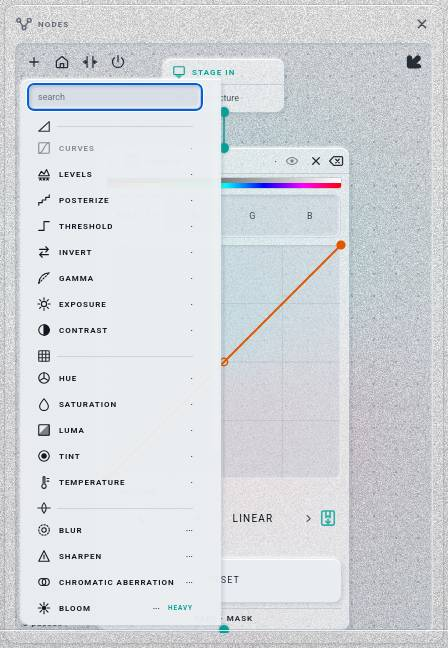
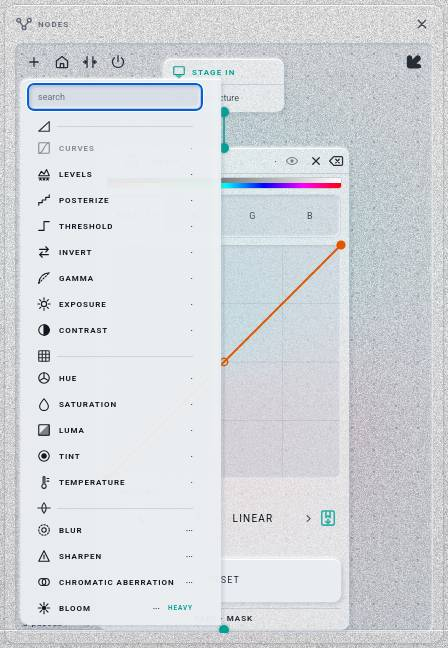
V3 CRAMPED SPACE: FOLDS skips hidden cards, the bar goes under any float it meets, the narrow stage seat, GRAIN rests while paused, reduced motion closed, the touch hold's slop
The sheet (1600, 1280x720 + MIR OPTIONS/KEYBOARD/NODES, 1366, 1280, 1024, 800, phone) before/after in V-shots/, 022's baseline.

Changed region(s): [[0.0, 0.0, 1.0, 1.0], [0.5, 0.1852, 0.5938, 0.216]]

diff --git a/lab/shell/modulation.js b/lab/shell/modulation.js
@@ -191,8 +191,28 @@ export function createModSeam(app) {
     }
     const hits = (a, b) => !(a.right <= b.left || a.left >= b.right || a.bottom <= b.top || a.top >= b.bottom);
     const dodging = {};   // 0.5.0 C7b: each kit window's open rect (the modulation window's, the TIMELINE's): the pill gives way to both
-    /* 020 T3 · THE BAR IS ON TOP of every window (lab.css, chrome + 3) but these two: when no seat clears them it goes UNDER them for that time */
-    const under = (on) => document.body.classList.toggle('transport-under', !!on);
+    /* 020 T3 · THE BAR IS ON TOP of every window (lab.css, chrome + 3) but these two: when no seat clears them it goes UNDER them for that time.
+       021 V3 · …AND UNDER EVERY OTHER OPEN FLOAT IT MEETS (a short screen: MIR OPTIONS, KEYBOARD, NODES, a floated card): the seat is chosen
+       against TIMELINE and MODULATION as before; then any open window in #floats over the bar's box puts the bar under it (`blocked`: no seat
+       cleared those two).  A window off the bar leaves it on top, so on a tall screen nothing changes until a window is dragged over it */
+    const floatsEl = document.getElementById('floats');
+    let blocked = false;
+    const floatOver = () => {
+      if (!floatsEl) return false;
+      const open = [...floatsEl.children].filter((n) => !n.hidden && (n.classList.contains('mir-win') || (n.classList.contains('dev') && n.classList.contains('floating') && !n.classList.contains('closed'))) && !n.classList.contains('mir-transport-free'));
+      if (!open.length) return false;
+      const t = document.getElementById('transport'); if (!t || !t.classList.contains('mini') || t.dataset.place === 'free') return false;
+      const b = t.getBoundingClientRect(); if (!b.width) return false;
+      return open.some((n) => { const r = n.getBoundingClientRect(); return r.width > 0 && hits(r, b); });
+    };
+    const under = (on) => document.body.classList.toggle('transport-under', !!on || floatOver());
+    if (floatsEl) {   // a float opened, closed, moved or resized: ask again, once a frame
+      let booked = 0; const book = () => { if (!booked) booked = requestAnimationFrame(() => { booked = 0; if (!trMoving) under(blocked); }); };
+      const mo = new MutationObserver((list) => { for (const m of list) for (const n of m.addedNodes || []) if (n.nodeType === 1) watch(n); book(); });
+      const watch = (n) => mo.observe(n, { attributes: true, attributeFilter: ['hidden', 'style', 'class'] });
+      mo.observe(floatsEl, { childList: true }); for (const n of floatsEl.children) watch(n);
+      addEventListener('resize', book);
+    }
     function modDodge(rect, who = 'mod') {
       /* 0.5.0 C4: the kit's close reports null, and its place() reports the real box even while closed (λWAVES' copy sent the
          zero rect): a window that is not open has nothing to dodge */
@@ -203,7 +223,7 @@ export function createModSeam(app) {
       const rs = Object.values(dodging).filter(Boolean), free = (s, w, h) => !rs.some((r) => hits(seatRect(s, w, h), r));
       occlusion.dirty();   // a paused field still has to move its line masks with the window
       const t = document.getElementById('transport');
-      if (!t || !t.classList.contains('mini') || t.dataset.place === 'free') { under(false); return; }   // iteration 014 A4: the FREE window is the hand's, never dodged
+      if (!t || !t.classList.contains('mini') || t.dataset.place === 'free') { blocked = false; under(false); return; }   // iteration 014 A4: the FREE window is the hand's, never dodged
       /* 015 T6 · A DODGE ASKED MID-MOVE IS KEPT, NOT DROPPED: the last one re-asks once the move has landed (before, only a report with no window
          open was retried, so a window that opened while the pill travelled could land on top of it) */
       if (trMoving) { clearTimeout(dodgeAgain); dodgeAgain = setTimeout(() => modDodge(dodging.mod || null, 'mod'), 320); return; }
@@ -215,7 +235,7 @@ export function createModSeam(app) {
          When the pill already sits there, that answer changed nothing but it read the pill's rect first: on a first visit
          the boot's forced style + layout, 30–38 ms, once the closed H₂ and MOLECULES cards stopped paying it
          (probes/N/n8-reads.mjs).  Any other case falls through to the measured road below, unchanged. */
-      if (!rs.length && trSeat === (matchMedia('(max-width: 860px)').matches ? 'top' : 'bottom')) { under(false); return; }
+      if (!rs.length && trSeat === (matchMedia('(max-width: 860px)').matches ? 'top' : 'bottom')) { blocked = false; under(false); return; }
       const box = t.getBoundingClientRect();
       const w = box.width || 560, h = box.height || 34;
       const narrowRack = matchMedia('(max-width: 860px)').matches;
@@ -223,7 +243,7 @@ export function createModSeam(app) {
       const want = narrowRack ? 'top'
                  : free('bottom', w, h) ? 'bottom'
                  : free('top', w, h) ? 'top' : trSeat;
-      under(!free(want, w, h));
+      blocked = !free(want, w, h); under(blocked);
       if (want === trSeat) return;
       trMoving = true;
       const leaving = trSeat === 'bottom' ? 'lw-tr-out-down' : 'lw-tr-out-up';
@@ -239,7 +259,7 @@ export function createModSeam(app) {
         t.style.animation = arriving + ' 160ms cubic-bezier(.23,1,.32,1) forwards';
         let ended = false;
         const done = () => { if (ended) return; ended = true;
-          t.removeEventListener('animationend', done); t.style.animation = ''; trMoving = false; };
+          t.removeEventListener('animationend', done); t.style.animation = ''; trMoving = false; under(blocked); };   // 021 V3: landed, the floats asked again
         t.addEventListener('animationend', done);
         setTimeout(done, 400);                                  // the belt: an animation that never fires must not wedge the flag
       };

diff --git a/lab/sw.js b/lab/sw.js
@@ -33,7 +33,7 @@
 const PRECACHE = [
   ['./ab-patch.json',                                               '5dd0e71d78bf'],
   ['./absorb.js',                                                   '3b0857195bfa'],
-  ['./actions.js',                                                  '09bc37845146'],
+  ['./actions.js',                                                  '4da9bf51550d'],
   ['./angular-nodes.js',                                            '945796c72ba8'],
   ['./ask.js',                                                      '6e716ccee7ea'],
   ['./atoms.js',                                                    'e132af19a5c8'],
@@ -54,9 +54,9 @@ const PRECACHE = [
   ['./chord-audio.js',                                              '015d0dd91a07'],
   ['./clock.js',                                                    '35e6b0ac22aa'],
   ['./cornell.js',                                                  'd38ee2adee25'],
-  ['./csb-favs.js',                                                 '63ebb5357816'],
+  ['./csb-favs.js',                                                 '9b9f6aa75dce'],
   ['./csb-search.js',                                               '3ca5a3e429ee'],
-  ['./csb.css',                                                     'ef0452c3bfa9'],
+  ['./csb.css',                                                     '0720a5b6dd83'],
   ['./demos/wave-dancer.lambdawaves.json',                          'c8c61c14152c'],
   ['./density.js',                                                  'b7e7f8bde4fb'],
   ['./dft-grid.js',                                                 '4a75ae325355'],
@@ -363,7 +363,7 @@ const PRECACHE = [
   ['./nodes-compile.js',                                            '56181686dca8'],
   ['./nodes-undo.js',                                               'cfe471461333'],
   ['./nodes-view.js',                                               '54ab54c70dd2'],
-  ['./nodes.css',                                                   '6c0b6302a36a'],
+  ['./nodes.css',                                                   '5b4b2b9fc2b1'],
   ['./nodes.js',                                                    'dde4da95d03e'],
   ['./occlusion.js',                                                'ad36cf08beeb'],
   ['./orbit.js',                                                    '244571342fd8'],
@@ -398,15 +398,15 @@ const PRECACHE = [
   ['./shell/ink.js',                                                '0c1ee4622c6f'],
   ['./shell/keys.js',                                               '4b9dfca3027f'],
   ['./shell/links.js',                                              '8e3bc790dcd4'],
-  ['./shell/modulation.js',                                         'da3c1910f73c'],
+  ['./shell/modulation.js',                                         '9fe4931f2367'],
   ['./shell/notebook.js',                                           '3fd299b37638'],
   ['./shell/persist.js',                                            'd7f47e9cbab6'],
   ['./shell/rack-wiring.js',                                        'e469da3bca24'],
   ['./shell/settings.js',                                           '33507fa11c11'],
   ['./shell/stage-words.js',                                        '71a6d96397b2'],
-  ['./shell/transport.js',                                          '57d1c5116816'],
+  ['./shell/transport.js',                                          '26c825a28f1c'],
   ['./skeleton.js',                                                 '5f395cf24269'],
-  ['./skin.css',                                                    '604167dba78f'],
+  ['./skin.css',                                                    '025c39130414'],
   ['./slice.js',                                                    '0fbaa89ce784'],
   ['./sliceview.js',                                                '6fa789fe996a'],
   ['./spectrum.js',                                                 'a91c2a46d8a4'],

diff --git a/lab/csb-favs.js b/lab/csb-favs.js
@@ -9,7 +9,7 @@
  *     OBSERVABLE): a seg made from the original's options whose press presses the original's button, so its owner's road (history, its status) runs.
  * ADD / REMOVE ride the knob's TIMELINE CLIP menu (the kit's setTimelineKnobRows) and a right click on an offered row (`data-fav`).  The list is a
  * PREFERENCE (`lambdawaves.q0.csb` { v: 1, items }), never a project: every new project starts with it.  Faces are built when the expander opens. */
-import { el, knob, seg, sw, label } from './mir/kit.js';
+import { el, knob, seg, sw, label, TAP } from './mir/kit.js';
 import { jsonStore } from './mir/core/prefs.js';
 import { setTimelineKnobRows } from './mir/timeline/knobs.js';
 
@@ -96,13 +96,13 @@ export function createCsbFavs(app, { panel }) {
     pop.querySelector('button').focus();
   }
   document.addEventListener('contextmenu', (e) => { const row = e.target.closest && e.target.closest('[data-fav]'); if (!row || e.target.closest('.k[data-param]')) return; e.preventDefault(); menu(row.dataset.fav, e.clientX, e.clientY); });
-  let hold = null;
+  let hold = null, at = null;   // 021 V3: a finger's own tremble is not a move — the hold cancels only past the kit's tap slop (TAP.px)
   document.addEventListener('pointerdown', (e) => {
     if (pop && !pop.contains(e.target)) closePop();
     const row = e.pointerType === 'touch' && e.target.closest && e.target.closest('[data-fav]'); if (!row || e.target.closest('.k[data-param]')) return;
-    const x = e.clientX, y = e.clientY; hold = setTimeout(() => { hold = null; menu(row.dataset.fav, x, y); }, 500);
+    const x = e.clientX, y = e.clientY; at = { x, y }; hold = setTimeout(() => { hold = null; menu(row.dataset.fav, x, y); }, 500);
   }, true);
-  const unhold = () => { if (hold) { clearTimeout(hold); hold = null; } };
+  const unhold = (e) => { if (!hold) return; if (e && e.type === 'pointermove' && at && Math.hypot(e.clientX - at.x, e.clientY - at.y) <= TAP.px) return; clearTimeout(hold); hold = null; };
   for (const t of ['pointerup', 'pointercancel', 'pointermove']) document.addEventListener(t, unhold, true);
 
   return {

diff --git a/lab/csb.css b/lab/csb.css
@@ -156,6 +156,14 @@ html body.rack-hidden #transport[data-place="free"] { transform: none; opacity: 
 #transport .k-val { display:none; }
 #transport .k:hover .k-val, #transport .k:focus-within .k-val, #transport .k.drag .k-val { display:block; }
 #transport.docked .tempo-expand { width:100%;background:hsl(var(--glass-tint) / 1);box-shadow:var(--relief-raise,var(--neu-raise)); }
+/* 021 V3 · THE NARROW STAGE (≤ 860 px: the racks stack, the right one at the foot): the old seat (left rack-w + 10, width auto) lost to the csb rules'
+   weight, so the bar kept its 674 px, stretched from 112 px to 60 px above the foot over the rack and left PLAY off the edge.  Now: under the top
+   rack's cards, centred with PLAY (the pair 674 + 78 px; 39 px is half PLAY's seat), its own height */
 @media (max-width:860px) {
-  #transport.mini,#transport.mini.tempo-open { left:calc(var(--rack-w) + 10px);right:10px;top:calc(env(safe-area-inset-top) + 112px);bottom:auto;width:auto;transform:none; }
+  #transport.mini[data-layout="csb"],#transport.mini[data-layout="csb"].tempo-open { left:calc(50% + 39px);right:auto;top:calc(env(safe-area-inset-top) + 112px);bottom:auto;transform:translateX(-50%);max-width:calc(100vw - 102px); }
 }
+/* 021 V3 · THE REDUCED-MOTION LIST CLOSED (REVIEW-C §3): PLAY's hover lift and INVERT's turn arrive at their end state at once (the system's
+   setting or MIR OPTIONS' motion, <html data-motion>) */
+@media (prefers-reduced-motion: reduce) { #transport[data-layout="csb"] .csb-play > .tbtn.play:hover { translate: none; } .pal-invert svg { transition: none; } }
+:root:is([data-motion="reduced"], [data-motion="off"]) #transport[data-layout="csb"] .csb-play > .tbtn.play:hover { translate: none; }
+:root:is([data-motion="reduced"], [data-motion="off"]) .pal-invert svg { transition: none; }

diff --git a/lab/nodes.css b/lab/nodes.css
@@ -98,3 +98,8 @@
 .node-layer[data-type="grain"] { inset: -50% 0 0 -50%; animation: node-grain .5s step-end infinite; will-change: transform; }   /* 1.5 × the stage: a jump of up to a third of it never shows an edge */
 @keyframes node-grain { 0.0% { transform: translate(0%, 0%); } 8.3% { transform: translate(12.2%, 23.4%); } 16.7% { transform: translate(27.1%, 4.3%); } 25.0% { transform: translate(6.3%, 15.8%); } 33.3% { transform: translate(21.1%, 30.4%); } 41.7% { transform: translate(1.7%, 9.6%); } 50.0% { transform: translate(30.0%, 18.8%); } 58.3% { transform: translate(14.2%, 2.0%); } 66.7% { transform: translate(8.9%, 27.4%); } 75.0% { transform: translate(25.1%, 12.5%); } 83.3% { transform: translate(19.1%, 21.8%); } 91.7% { transform: translate(4.0%, 32.0%); } }   /* percentages, no var(): the compositor runs it, no style recalc a step */
 @media (prefers-reduced-motion: reduce) { .node-layer[data-type="grain"] { animation: none; } }
+/* 021 V3 · GRAIN rests while nothing plays (the "nothing playing ⇒ no frame" law; body.lw-playing is THE PLAY's, shell/transport.js); the chevron
+   turns at once under reduced motion */
+body:not(.lw-playing) .node-layer[data-type="grain"] { animation-play-state: paused; }
+@media (prefers-reduced-motion: reduce) { .nodes-chev svg { transition: none; } }
+:root:is([data-motion="reduced"], [data-motion="off"]) .nodes-chev svg { transition: none; }

diff --git a/lab/actions.js b/lab/actions.js
@@ -37,7 +37,7 @@ export function createActions(app) {
   const fsOn = () => !!(document.fullscreenElement || (typeof matchMedia === 'function' && matchMedia('(display-mode: fullscreen)').matches));
   const fullscreen = () => { if (!document.fullscreenElement && fsOn()) { W().wState.setStatus('the browser’s full screen (F11) is the browser’s: F11 leaves it', 'warn'); return; } W().toggleFullscreen(); };
   const IP = infoPrefs(), infoKeys = INFO_ROWS.filter((r) => r.type === 'bool').map((r) => r.key); let infoKept = null;
-  const foldable = () => (S().rk ? S().rk.windows().filter((w) => w.open && w.built && w.id !== 'transport') : []);
+  const foldable = () => (S().rk ? S().rk.windows().filter((w) => w.open && w.built && !w.hidden && w.id !== 'transport') : []);   // 021 V3: a mode-hidden or LEGACY card is not FOLDS' (kit windows() `hidden`)
   /** reveal(id) — a window by the FINDER's road (kit rk.reveal: an open one scrolled to, a closed one opened at the top); NODES as its FREE window */
   const reveal = (id) => { const N = nodes(), d = document.querySelector('.dev[data-id="' + id + '"]'); if (id === 'nodes' && N && (!d || d.classList.contains('closed'))) N.open(); else S().rk.reveal(id); S().saveSettings(); };
   const theme = (a) => { const T = app.hooks.setTheme; if (!T) return; if (a && a.id) T(a.id); else T(document.body.dataset.theme === 'light' ? 'dark' : 'light'); };

diff --git a/lab/shell/transport.js b/lab/shell/transport.js
@@ -36,7 +36,9 @@ export function createTransport(app) {
     /* THE PLAY's clock for the kit's play part: appPlay, and a press schedules the frame that shows it (togglePlay's law) */
     const barClock = { play: () => { const r = appPlay.play(); schedule(TIER.EVOLVE); return r; }, pause: () => { const r = appPlay.pause(); schedule(TIER.EVOLVE); return r; },
       isPlaying: () => appPlay.isPlaying(), onChange: (f) => appPlay.onChange(f),
-      seek: () => appPlay.seek(0) };   // ⏮ (wave 106: the playhead goes back with the clock; 021 R3: through THE ONE SEEK)
+      seek: () => appPlay.seek(0) };
+    /* 021 V3 · THE PLAYING CLASS: body.lw-playing while THE PLAY runs (one edge each way, onePlay's onChange) — GRAIN's keyframes rest without it (nodes.css) */
+    { const playing = (on) => document.body.classList.toggle('lw-playing', !!on); appPlay.onChange(playing); playing(appPlay.isPlaying()); }   // ⏮ (wave 106: the playhead goes back with the clock; 021 R3: through THE ONE SEEK)
     /* 021 R3 · THE ONE SEEK's hooks (clock.js): the playhead (the SCRUB, never under a hand), the shadow trail, the frame */
     appPlay.bind({ playhead: (t) => { if (ui.scrub && !ui.scrub.dragging()) ui.scrub.set(((t % clock.window) + clock.window) % clock.window / clock.window); },
       trail: () => shadowView.clearTrail(), schedule: () => schedule(TIER.EVOLVE) });

diff --git a/lab/skin.css b/lab/skin.css
@@ -772,6 +772,8 @@ body.frost #lwMenu .mm-arrow { -webkit-backdrop-filter: blur(14px) saturate(1.25
 #lwMenu .mm-navb:hover, #lwMenu .mm-navb:focus-visible { opacity: 1; color: var(--acc); scale: 1.1; } #lwMenu .mm-navb:active { scale: .94; }
 #lwMenu .mm-hue { opacity: .55; cursor: ns-resize; touch-action: none; }
 #lwMenu .mm-hue-ring { display: block; width: 20px; height: 20px; rotate: var(--mol-hue); position: relative; transition: rotate 120ms var(--ease); }
+@media (prefers-reduced-motion: reduce) { #lwMenu .mm-hue-ring { transition: none; } }   /* 021 V3: the ring turns to the hue at once */
+:root:is([data-motion="reduced"], [data-motion="off"]) #lwMenu .mm-hue-ring { transition: none; }
 /* iteration 015 M6 · THE HUE BUTTON (Josh: "grey like the rest but then mouse over shows the colors avail"): the ring in the ink at rest, as its
    neighbours' icons are, and the wheel's colours fading in on a hover, a focus or a drag.  021 V2: the ring is the table's `hueRing` (an SVG); the
    colours lie over its circle only, clipped by a radial ring (r 7.05–8.95 of the 24 box, centre 12, 12.5) — no image mask */
